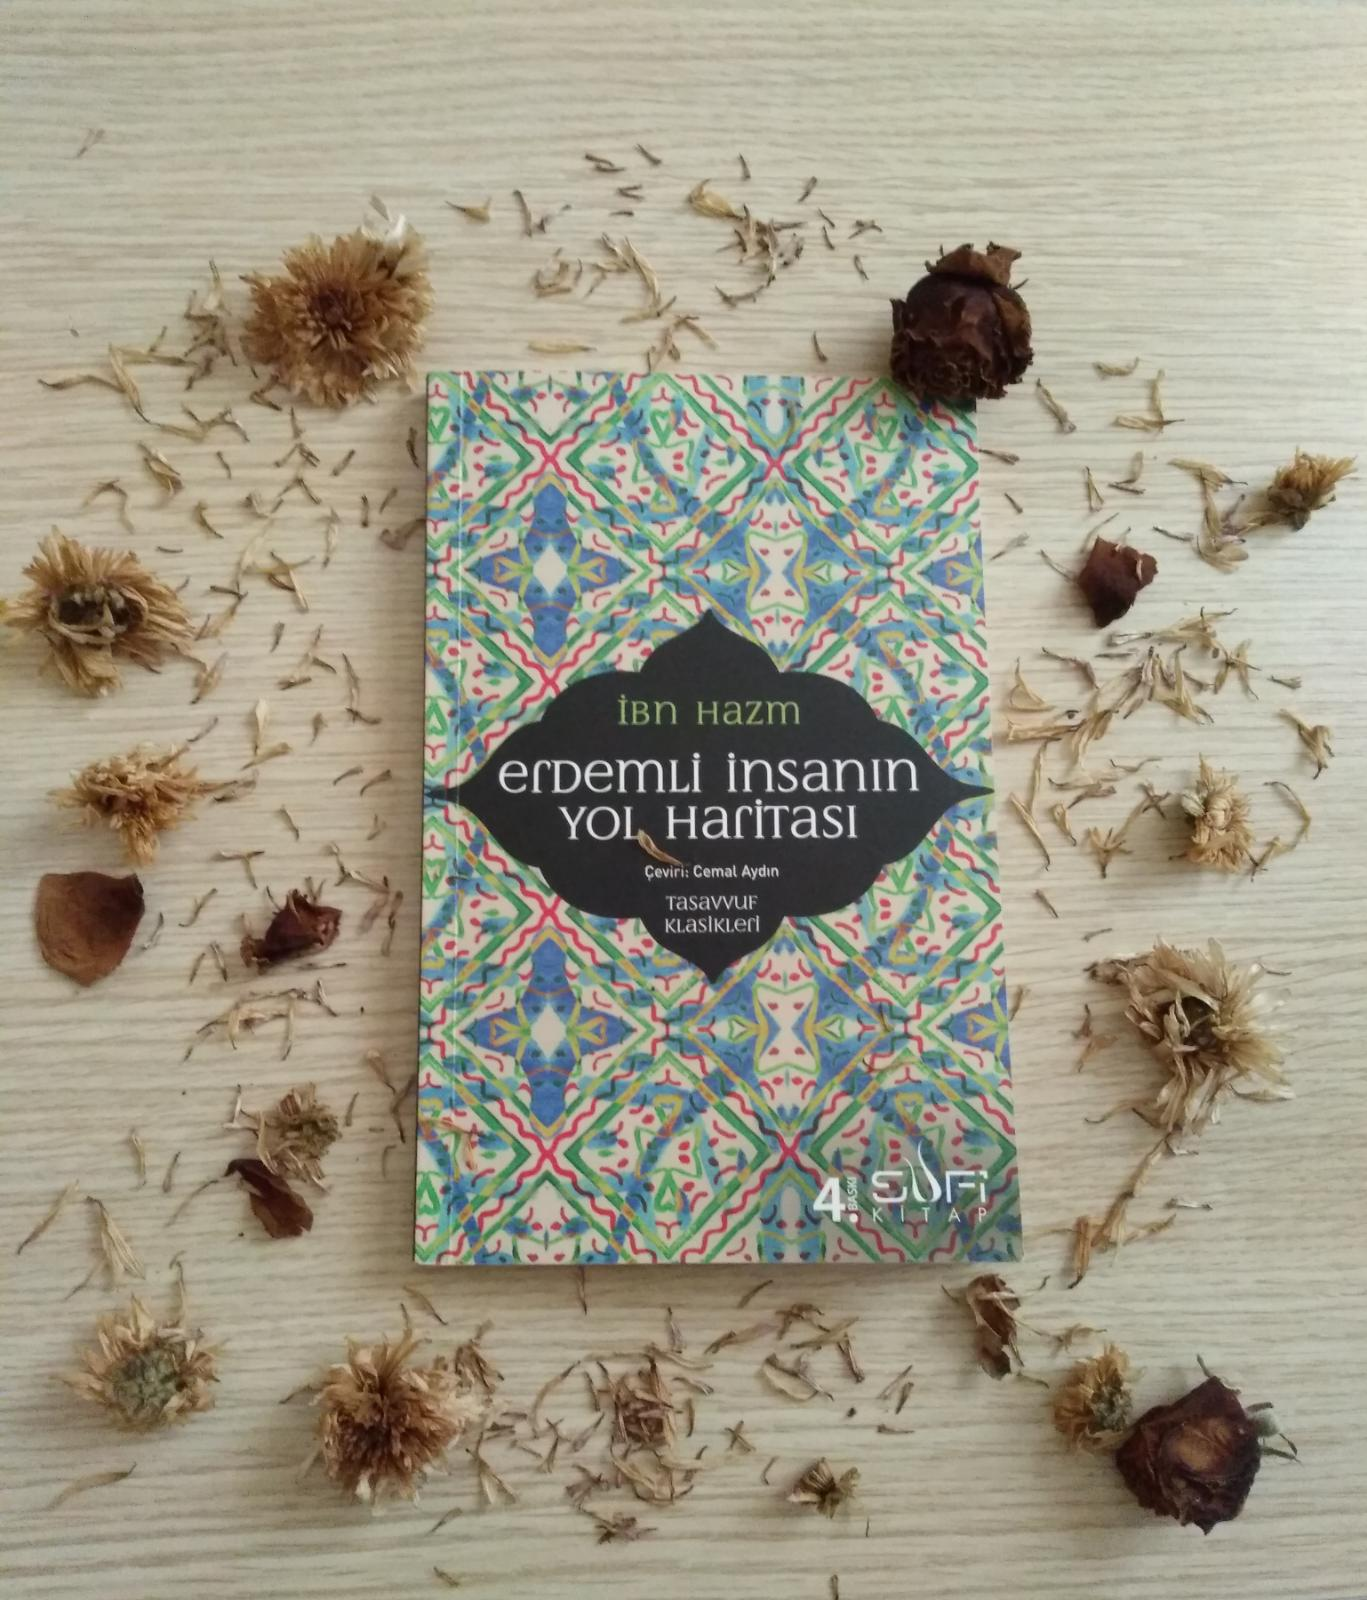
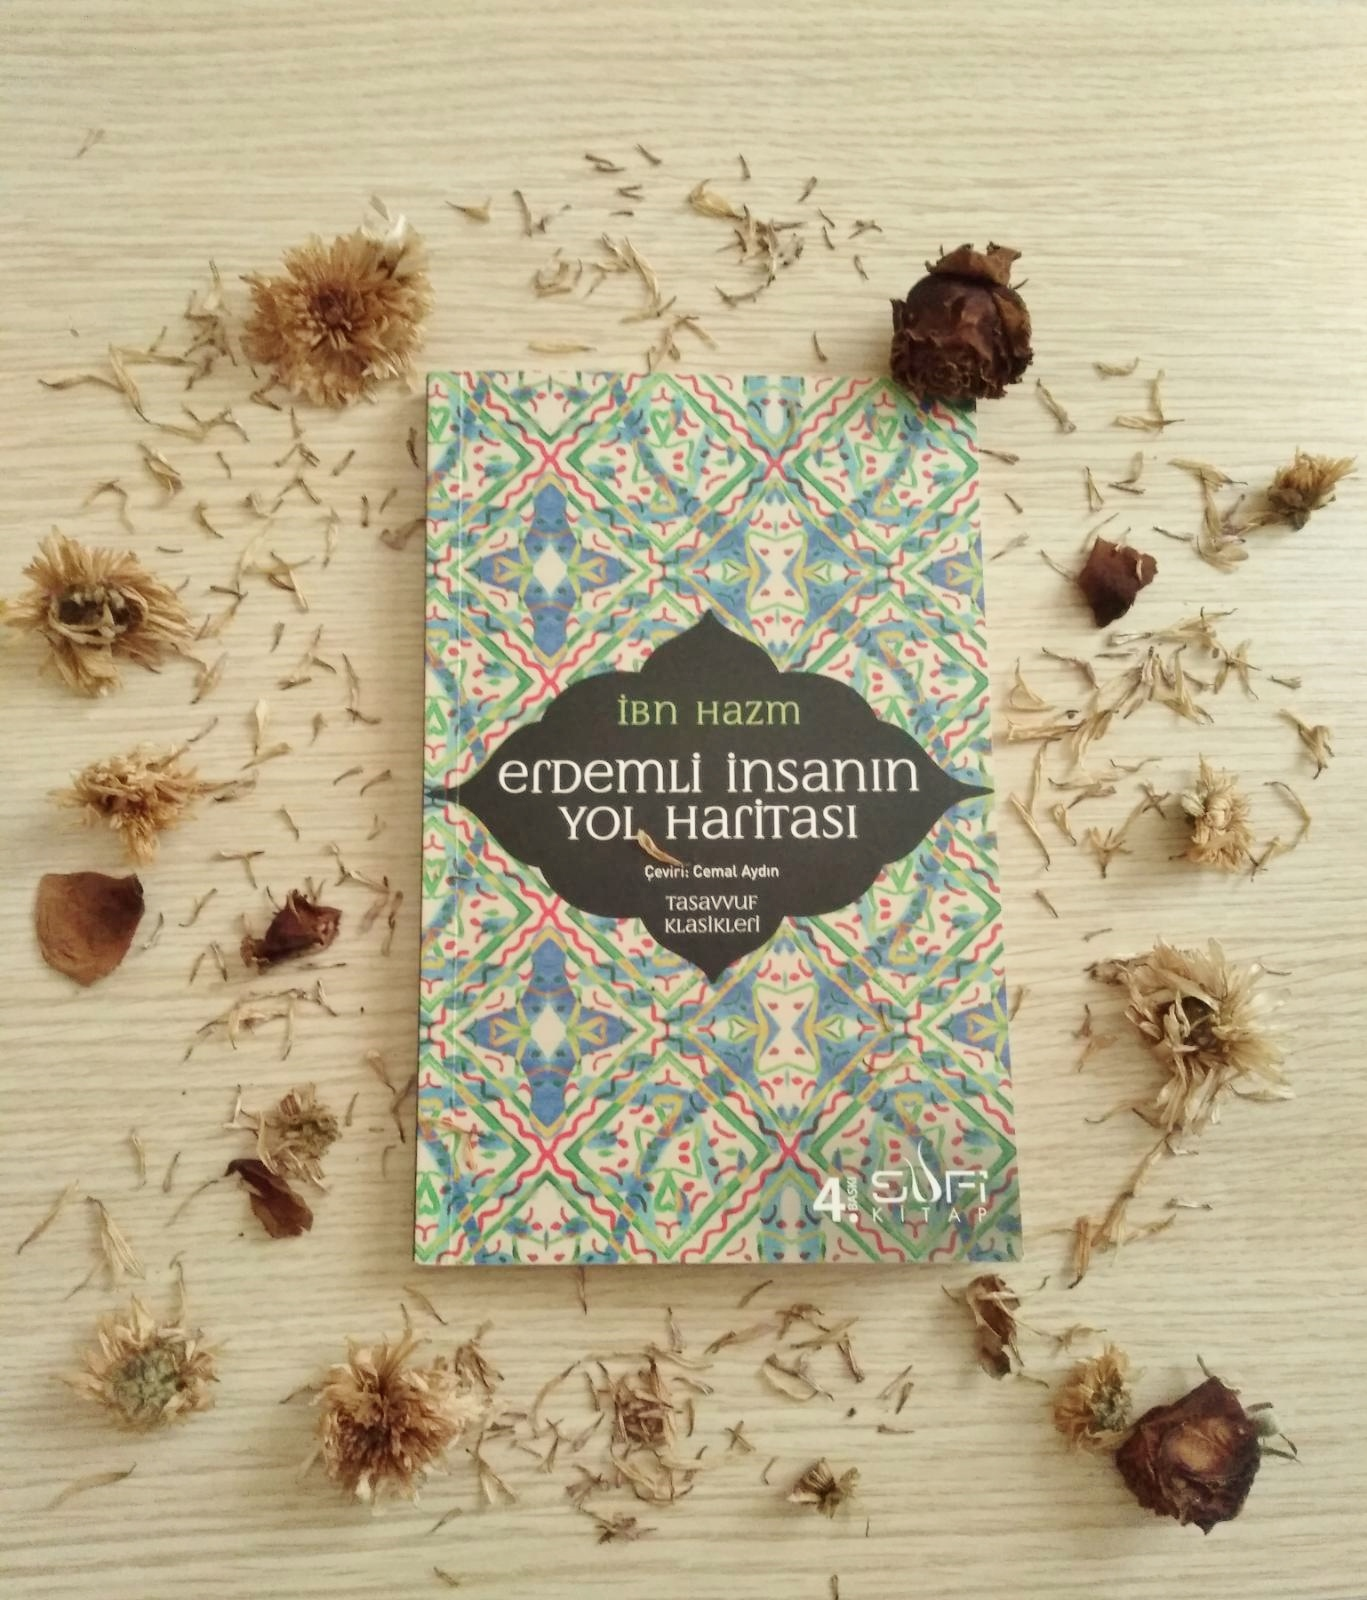
Update Yazı “2022-06-09-erdemli-insanin-yol-haritasi”

diff --git a/_posts/2022-06-09-erdemli-insanin-yol-haritasi.md b/_posts/2022-06-09-erdemli-insanin-yol-haritasi.md
@@ -8,7 +8,7 @@ categories:
 featured: true
 sticky: true
 comments: true
-image: /assets/images/whatsapp-image-2022-05-31-at-18.20.30-1-.jpeg
+image: /assets/images/whatsapp-image-2022-05-31-at-18.20.30.jpeg
 ---
 <!--StartFragment-->
 
@@ -90,7 +90,7 @@ Yazar, erdemli olma yolunda kişinin edindiği dostlukların ve çevrelerin de p
 
 Nitekim dost ve arkadaş edinmek; hoşgörü, yüce gönüllülük, sabır ve anlayış gösterme gibi pek çok erdemi bir araya getirmektedir. \[18]
 
-![](/assets/images/whatsapp-image-2022-05-31-at-18.20.30.jpeg)
+![](/assets/images/whatsapp-image-2022-05-31-at-18.20.30-1-.jpeg)
 
 Kitabın yanı sıra dikkate değer, etkileyici bir diğer nokta ise, yazarın kendi hayatıdır. Kitabı okuduğumuzda kendisi hakkında az da olsa bir malumat edinilmektedir. Endülüslü İbn Hazm, yirmi altı yaşından önce daha çok dil bilgisi, şiir, hitabet, mantık ve tarih gibi konularla ilgilenmişken o yaştan itibaren fıkıh, hadis ve diğer İslami ilimleri öğrenmeye başlamış ve çok kısa zamanda döneminin değerli, sayılı âlimlerinden biri haline gelmiştir.
 
